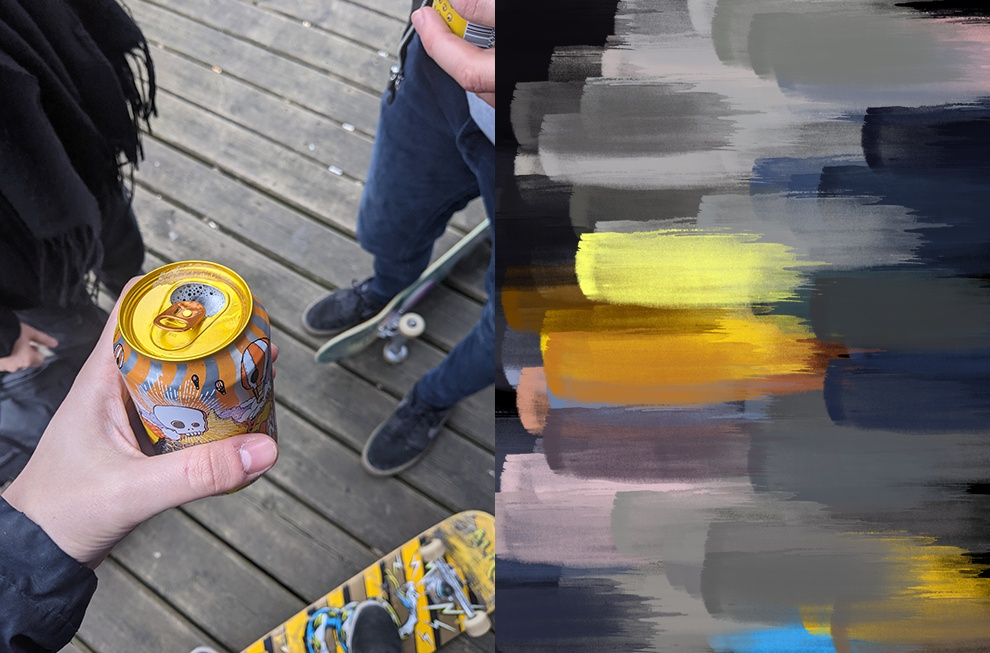
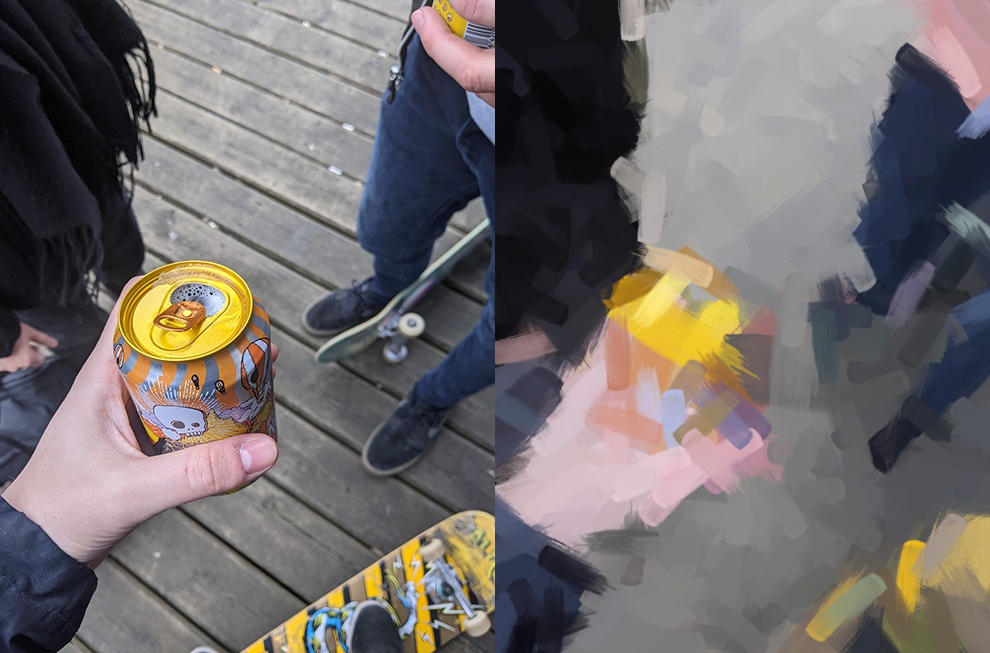
updated

diff --git a/animPaint.py b/animPaint.py
@@ -18,6 +18,8 @@ imageHeight = inputImage.shape[0]
 imageWidth = inputImage.shape[1]
 
 brushImage = cv2.imread('brushes/1.jpg', 0)
+brushSmallImage = cv2.imread('brushes/2.png', 0)
+brushSmallerImage = cv2.imread('brushes/3.png', 0)
 
 brushHeight = brushImage.shape[0]
 brushWidth = brushImage.shape[1]
@@ -38,14 +40,27 @@ def generateTransform(x, y):
     M = np.float32([[1,0,tx],[0,1,ty]])
     return M
 
+def generateRandomRotation(rows, cols):
+    rotation = random.random() * 360
+    M = cv2.getRotationMatrix2D(((cols-1)/2.0,(rows-1)/2.0),rotation,1)
+    return M
+
+def calcDifference(inImg, alteredImg):
+    diff1 = cv2.subtract(inImg, alteredImg, dtype=cv2.CV_64F) #values are too low
+    totalDiff = np.absolute(diff1)
+    totalDiff = np.sum(totalDiff)
+    return totalDiff
+
 blankImage = np.ones((imageHeight,imageWidth,3))
 
 baseImage = inputImage.copy()
 baseImage = np.zeros((imageHeight,imageWidth,3))
 
 brush = brushImage.astype(float) / 255
+brushSmall = brushSmallImage.astype(float) / 255
+brushSmaller = brushSmallerImage.astype(float) / 255
 
-for x in range(100):
+for x in range(1500):
     randX = int(random.random() * imageWidth)
     randY = int(random.random() * imageHeight)
 
@@ -53,8 +68,17 @@ for x in range(100):
 
     # print(inputImage[randY][randX])
 
+    inBrush = brush
+
+    if(x>400):
+        inBrush = brushSmall
+    if(x>800):
+        inBrush = brushSmaller
+
+    rotatedBrush = cv2.warpAffine(inBrush,generateRandomRotation(300, 300),(brush.shape[1],brush.shape[0]))
+
     border = cv2.copyMakeBorder(
-            brush,
+            rotatedBrush,
             top=0,
             bottom=brushTopBorder,
             left=0,
@@ -80,7 +104,20 @@ for x in range(100):
 
     sampleImage = cv2.add( cv2.multiply(baseImage.astype(float), cv2.subtract(blankImage.astype(float), sampleBrushImage.astype(float)) ), cv2.multiply(targetColor.astype(float), sampleBrushImage.astype(float)) )
 
-    baseImage = cv2.convertScaleAbs(sampleImage)
+    difference = calcDifference(inputImage, sampleImage)
+    diffBase = calcDifference(inputImage, baseImage)
+
+    if (difference <= diffBase):
+        baseImage = cv2.convertScaleAbs(sampleImage)
+    
+
+comparisonImage =  np.absolute(cv2.subtract(inputImage, baseImage, dtype=cv2.CV_64F).astype(int))
+
+print(comparisonImage.dtype)
+
+comparisonImage = cv2.cvtColor(np.uint8(comparisonImage), cv2.COLOR_BGR2GRAY)
+
+comparisonImage = np.tile(comparisonImage[:, :, None], [1, 1, 3])
 
 baseImage = np.concatenate((inputImage,baseImage), axis=1)
 
